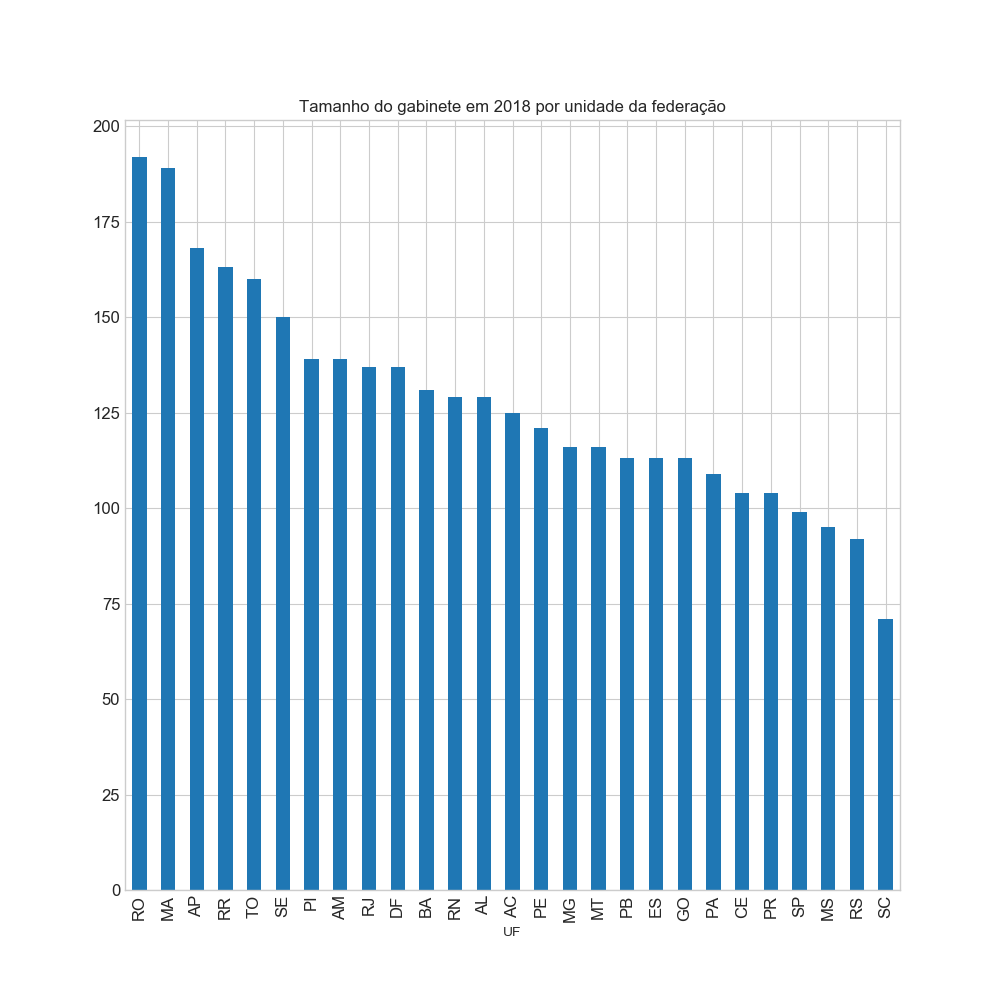
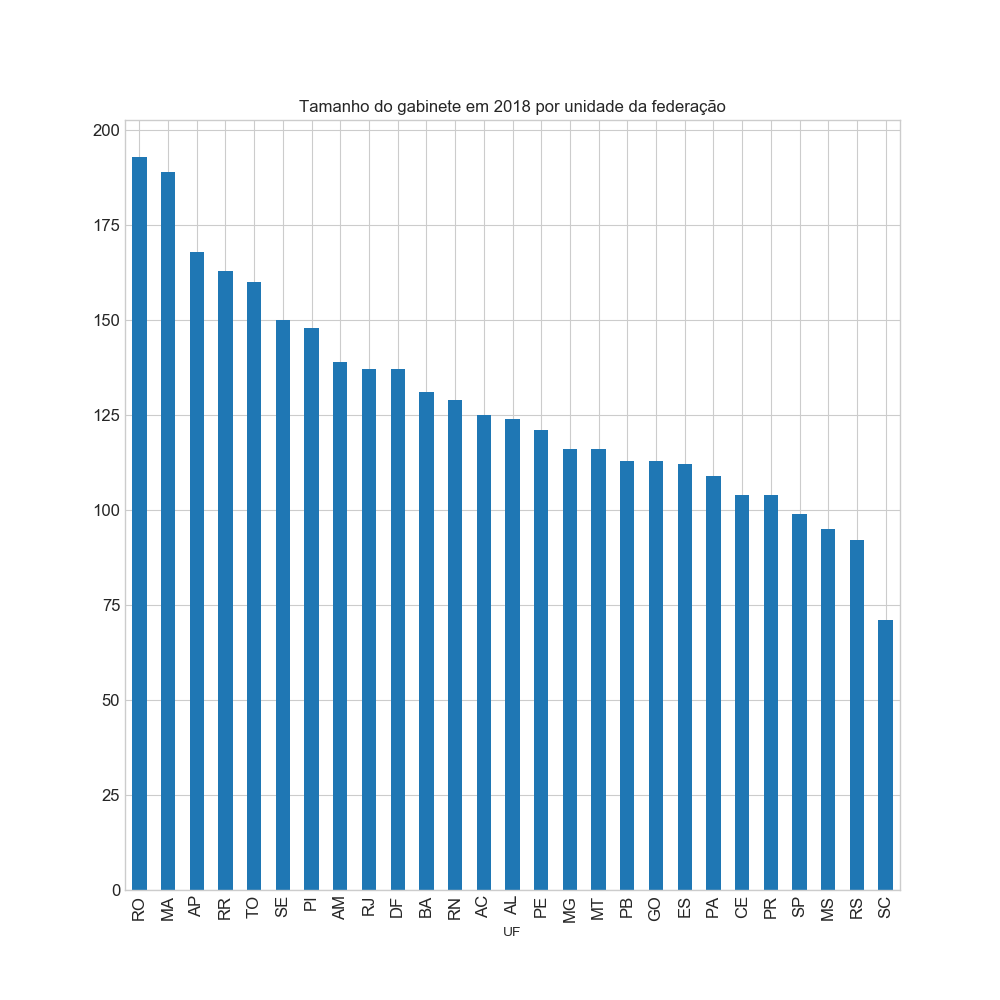
Atualização de dados do Senado (55)- auto

diff --git a/index.html b/index.html
@@ -31,7 +31,7 @@
 <!--Data-->       
 17/07/2018 às 
 <!--Hora-->
-02:27:03      </b><br></div>
+12:19:57      </b><br></div>
       <br>
       <div class="TextoImagem">
         <center>
@@ -108,7 +108,7 @@
               <td align='left'>Titular</td>
               <td align='middle'>RO</td>
               <td align='left'>PDT</td>
-              <td align='right'>51 pessoas</td>
+              <td align='right'>52 pessoas</td>
               <td align='right'>1 mês</td>
             </tr>
             <tr>
@@ -229,7 +229,7 @@
               <td align='left'>Titular</td>
               <td align='middle'>PI</td>
               <td align='left'>PP</td>
-              <td align='right'>52 pessoas</td>
+              <td align='right'>53 pessoas</td>
               <td align='right'>41 meses</td>
             </tr>
             <tr>
@@ -280,7 +280,7 @@
               <td>17</td>
               <td align='middle'><a href='http://www6g.senado.leg.br/transparencia/sen/16/?ano=2018' target='_blank'><img src='fotos/senador16.jpg' height='51' width='42'><span class='fototip'>Crédito foto: Senado Federal</span></a></td>
               <td align='left'>Edison Lobão</td>
-              <td align='left' class='gastos' name='16'>R$ 1.029.422,86</td>
+              <td align='left' class='gastos' name='16'>R$ 1.029.490,42</td>
               <td align='left'>Titular</td>
               <td align='middle'>MA</td>
               <td align='left'>MDB</td>
@@ -313,7 +313,7 @@
               <td>20</td>
               <td align='middle'><a href='http://www6g.senado.leg.br/transparencia/sen/4767/?ano=2018' target='_blank'><img src='fotos/senador4767.jpg' height='51' width='42'><span class='fototip'>Crédito foto: Jefferson Rudy/Agência Senado</span></a></td>
               <td align='left'>Eduardo Lopes</td>
-              <td align='left' class='gastos' name='4767'>R$ 857.599,66</td>
+              <td align='left' class='gastos' name='4767'>R$ 857.738,67</td>
               <td align='left'>1º Suplente</td>
               <td align='middle'>RJ</td>
               <td align='left'>PRB</td>
@@ -361,7 +361,7 @@
               <td align='left'>Titular</td>
               <td align='middle'>AL</td>
               <td align='left'>PTC</td>
-              <td align='right'>74 pessoas</td>
+              <td align='right'>69 pessoas</td>
               <td align='right'>41 meses</td>
             </tr>
             <tr>
@@ -493,7 +493,7 @@
               <td align='left'>1º Suplente</td>
               <td align='middle'>PI</td>
               <td align='left'>PODE</td>
-              <td align='right'>50 pessoas</td>
+              <td align='right'>58 pessoas</td>
               <td align='right'>0 meses</td>
             </tr>
             <tr>
@@ -511,7 +511,7 @@
               <td>38</td>
               <td align='middle'><a href='http://www6g.senado.leg.br/transparencia/sen/5112/?ano=2018' target='_blank'><img src='fotos/senador5112.jpg' height='51' width='42'><span class='fototip'>Crédito foto: Senado Federal</span></a></td>
               <td align='left'>José Medeiros</td>
-              <td align='left' class='gastos' name='5112'>R$ 1.682.609,52</td>
+              <td align='left' class='gastos' name='5112'>R$ 1.682.624,62</td>
               <td align='left'>1º Suplente</td>
               <td align='middle'>MT</td>
               <td align='left'>PODE</td>
@@ -555,7 +555,7 @@
               <td>42</td>
               <td align='middle'><a href='http://www6g.senado.leg.br/transparencia/sen/5533/?ano=2018' target='_blank'><img src='fotos/senador5533.jpg' height='51' width='42'><span class='fototip'>Crédito foto: Senado Federal</span></a></td>
               <td align='left'>Lasier Martins</td>
-              <td align='left' class='gastos' name='5533'>R$ 927.953,31</td>
+              <td align='left' class='gastos' name='5533'>R$ 927.980,61</td>
               <td align='left'>Titular</td>
               <td align='middle'>RS</td>
               <td align='left'>PSD</td>
@@ -577,7 +577,7 @@
               <td>44</td>
               <td align='middle'><a href='http://www6g.senado.leg.br/transparencia/sen/3695/?ano=2018' target='_blank'><img src='fotos/senador3695.jpg' height='51' width='42'><span class='fototip'>Crédito foto: Cléber Medeiros/Supres</span></a></td>
               <td align='left'>Lindbergh Farias</td>
-              <td align='left' class='gastos' name='3695'>R$ 1.408.893,68</td>
+              <td align='left' class='gastos' name='3695'>R$ 1.408.901,91</td>
               <td align='left'>Titular</td>
               <td align='middle'>RJ</td>
               <td align='left'>PT</td>
@@ -603,7 +603,7 @@
               <td align='left'>Titular</td>
               <td align='middle'>ES</td>
               <td align='left'>PR</td>
-              <td align='right'>47 pessoas</td>
+              <td align='right'>46 pessoas</td>
               <td align='right'>41 meses</td>
             </tr>
             <tr>
@@ -632,7 +632,7 @@
               <td>49</td>
               <td align='middle'><a href='http://www6g.senado.leg.br/transparencia/sen/5525/?ano=2018' target='_blank'><img src='fotos/senador5525.jpg' height='51' width='42'><span class='fototip'>Crédito foto: Senado Federal</span></a></td>
               <td align='left'>Omar Aziz</td>
-              <td align='left' class='gastos' name='5525'>R$ 1.575.466,93</td>
+              <td align='left' class='gastos' name='5525'>R$ 1.583.247,93</td>
               <td align='left'>Titular</td>
               <td align='middle'>AM</td>
               <td align='left'>PSD</td>
@@ -643,7 +643,7 @@
               <td>50</td>
               <td align='middle'><a href='http://www6g.senado.leg.br/transparencia/sen/5523/?ano=2018' target='_blank'><img src='fotos/senador5523.jpg' height='51' width='42'><span class='fototip'>Crédito foto: Senado Federal</span></a></td>
               <td align='left'>Otto Alencar</td>
-              <td align='left' class='gastos' name='5523'>R$ 886.608,61</td>
+              <td align='left' class='gastos' name='5523'>R$ 886.610,46</td>
               <td align='left'>Titular</td>
               <td align='middle'>BA</td>
               <td align='left'>PSD</td>
@@ -654,7 +654,7 @@
               <td>51</td>
               <td align='middle'><a href='http://www6g.senado.leg.br/transparencia/sen/3741/?ano=2018' target='_blank'><img src='fotos/senador3741.jpg' height='51' width='42'><span class='fototip'>Crédito foto: Cléber Medeiros/Supres</span></a></td>
               <td align='left'>Paulo Bauer</td>
-              <td align='left' class='gastos' name='3741'>R$ 1.578.014,37</td>
+              <td align='left' class='gastos' name='3741'>R$ 1.578.016,22</td>
               <td align='left'>Titular</td>
               <td align='middle'>SC</td>
               <td align='left'>PSDB</td>
@@ -687,7 +687,7 @@
               <td>54</td>
               <td align='middle'><a href='http://www6g.senado.leg.br/transparencia/sen/5116/?ano=2018' target='_blank'><img src='fotos/senador5116.jpg' height='51' width='42'><span class='fototip'>Crédito foto: Senado Federal</span></a></td>
               <td align='left'>Pedro Chaves</td>
-              <td align='left' class='gastos' name='5116'>R$ 920.752,93</td>
+              <td align='left' class='gastos' name='5116'>R$ 927.788,45</td>
               <td align='left'>1º Suplente</td>
               <td align='middle'>MS</td>
               <td align='left'>PRB</td>
@@ -720,7 +720,7 @@
               <td>57</td>
               <td align='middle'><a href='http://www6g.senado.leg.br/transparencia/sen/5072/?ano=2018' target='_blank'><img src='fotos/senador5072.jpg' height='51' width='42'><span class='fototip'>Crédito foto: Senado Federal</span></a></td>
               <td align='left'>Reditario Cassol</td>
-              <td align='left' class='gastos' name='5072'>R$ 11.320,02</td>
+              <td align='left' class='gastos' name='5072'>R$ 11.510,90</td>
               <td align='left'>1º Suplente</td>
               <td align='middle'>RO</td>
               <td align='left'>PP</td>
@@ -753,7 +753,7 @@
               <td>60</td>
               <td align='middle'><a href='http://www6g.senado.leg.br/transparencia/sen/70/?ano=2018' target='_blank'><img src='fotos/senador70.jpg' height='51' width='42'><span class='fototip'>Crédito foto: Senado Federal</span></a></td>
               <td align='left'>Renan Calheiros</td>
-              <td align='left' class='gastos' name='70'>R$ 562.331,09</td>
+              <td align='left' class='gastos' name='70'>R$ 562.440,24</td>
               <td align='left'>Titular</td>
               <td align='middle'>AL</td>
               <td align='left'>MDB</td>
